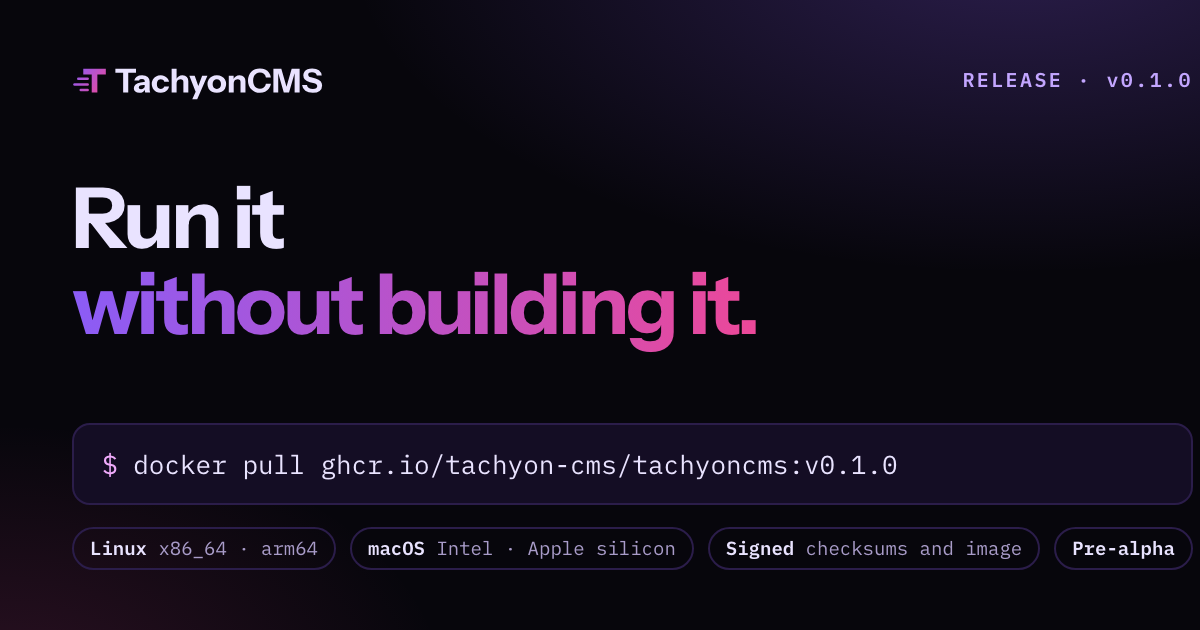
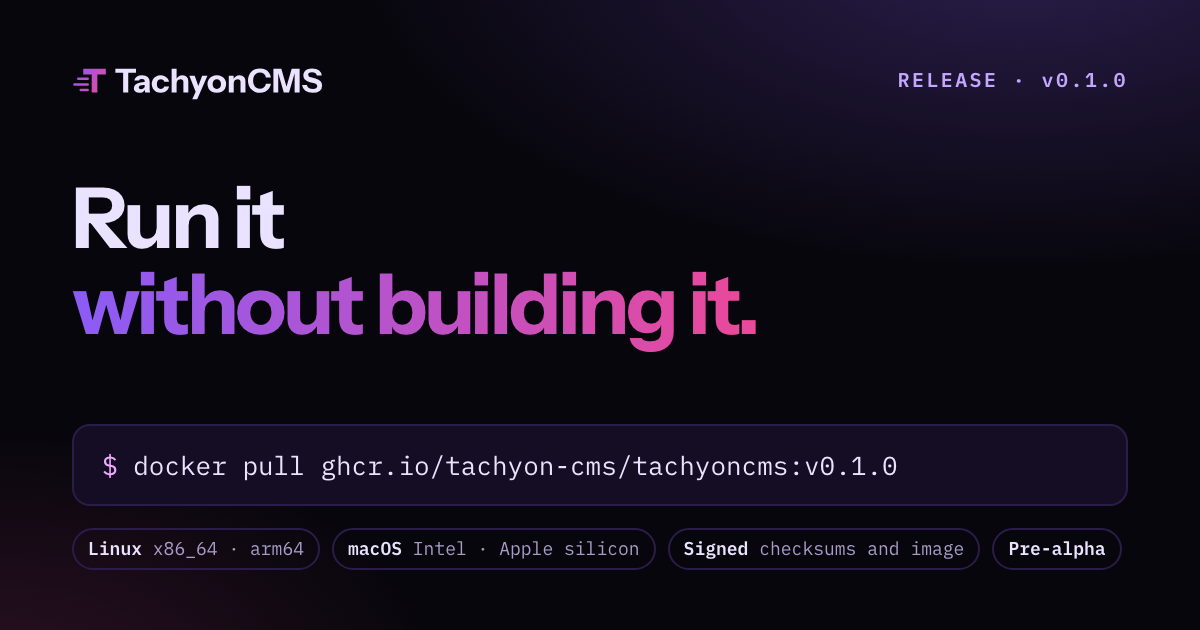
fix: build the fixture in a temp dir and fit the release card
The scheduled-post test copies the posts and a post dated 2999 into a
temp dir and builds from it through BLOG_DIR, so src is never written
to. A guard fails if a fixture ever lands in src/content/blog.

The v0.1.0 card's grid let wide content push past the frame; the column
is now minmax(0, 1fr) and the chips are tighter. render.mjs refuses to
write a graphic when anything crosses its frame's padding. Post pages
are og:type article with article:published_time.

diff --git a/tests/blog.spec.ts b/tests/blog.spec.ts
@@ -8,6 +8,8 @@ test('/blog lists both launch posts and marks Blog in the nav', async ({ page })
   for (const path of posts) await expect(page.locator(`main a[href="${path}"]`)).toBeVisible();
   await expect(page.locator('header nav a[href="/blog"]')).toHaveAttribute('aria-current', 'page');
   await expect(page.locator('main a[href="/rss.xml"]')).toBeVisible();
+  await expect(page.locator('meta[property="og:type"]')).toHaveAttribute('content', 'website');
+  await expect(page.locator('meta[property="article:published_time"]')).toHaveCount(0);
 });
 
 test('the home page shows the latest posts', async ({ page }) => {
@@ -21,6 +23,8 @@ for (const path of posts) {
     await expect(page.locator('h1')).toHaveCount(1);
     const slug = path.split('/').pop();
     await expect(page.locator('meta[property="og:image"]')).toHaveAttribute('content', `https://tachyoncms.com/media/blog/${slug}/card.png`);
+    await expect(page.locator('meta[property="og:type"]')).toHaveAttribute('content', 'article');
+    await expect(page.locator('meta[property="article:published_time"]')).toHaveAttribute('content', '2026-10-28T00:00:00.000Z');
     await expect(page.locator('meta[name="twitter:card"]')).toHaveAttribute('content', 'summary_large_image');
     const card = await page.request.get(`/media/blog/${slug}/card.png`);
     expect(card.ok()).toBe(true);

diff --git a/scripts/post-graphics/v0-1-0/card.html b/scripts/post-graphics/v0-1-0/card.html
@@ -6,16 +6,16 @@
 <link rel="stylesheet" href="../shared.css">
 <style>
   body { width: 1200px; height: 630px; overflow: hidden; }
-  .frame { height: 100%; padding: 60px 72px; display: grid; grid-template-rows: auto 1fr auto; }
+  .frame { height: 100%; padding: 60px 72px; display: grid; grid-template-columns: minmax(0, 1fr); grid-template-rows: auto 1fr auto; }
   .top { display: flex; justify-content: space-between; align-items: center; }
   .top img { height: 40px; }
   h1 { align-self: center; font-size: 84px; line-height: 1.02; letter-spacing: -0.04em; font-weight: 700; }
   .bottom { display: grid; gap: 22px; }
   pre { padding: 22px 28px; font-size: 26px; color: var(--text); }
   pre span { color: var(--hi); }
-  ul { display: flex; gap: 14px; padding: 0; list-style: none; font: 400 19px/1 var(--mono); color: var(--muted); }
+  ul { display: flex; gap: 12px; padding: 0; list-style: none; font: 400 18px/1 var(--mono); color: var(--muted); }
   .eyebrow span { text-transform: none; }
-  li { white-space: nowrap; padding: 10px 16px; border: 2px solid var(--border); border-radius: 999px; }
+  li { white-space: nowrap; padding: 10px 14px; border: 2px solid var(--border); border-radius: 999px; }
   li b { color: var(--text); font-weight: 600; }
 </style>
 </head>

diff --git a/src/content.config.ts b/src/content.config.ts
@@ -9,7 +9,9 @@ const source = z.string().regex(/^(https:\/\/\S+|[\w.][\w./-]*(#[\w-]+)?)$/, 'a 
 export const collections = {
   // Posts. One dated later than today waits for its day (src/lib/published.js).
   blog: defineCollection({
-    loader: glob({ pattern: '*.md', base: './src/content/blog' }),
+    // BLOG_DIR lets scripts/published.test.mjs build from a copy with a future post
+    // in it, so the test never writes into src.
+    loader: glob({ pattern: '*.md', base: process.env.BLOG_DIR ?? './src/content/blog' }),
     schema: z.object({
       title: z.string(),
       description: z.string(),

diff --git a/scripts/post-graphics/where-tachyoncms-is-headed/card.html b/scripts/post-graphics/where-tachyoncms-is-headed/card.html
@@ -6,7 +6,7 @@
 <link rel="stylesheet" href="../shared.css">
 <style>
   body { width: 1200px; height: 630px; overflow: hidden; }
-  .frame { height: 100%; padding: 60px 72px; display: grid; grid-template-rows: auto 1fr auto; }
+  .frame { height: 100%; padding: 60px 72px; display: grid; grid-template-columns: minmax(0, 1fr); grid-template-rows: auto 1fr auto; }
   .top { display: flex; justify-content: space-between; align-items: center; }
   .top img { height: 40px; }
   h1 { align-self: center; font-size: 80px; line-height: 1.02; letter-spacing: -0.04em; }
